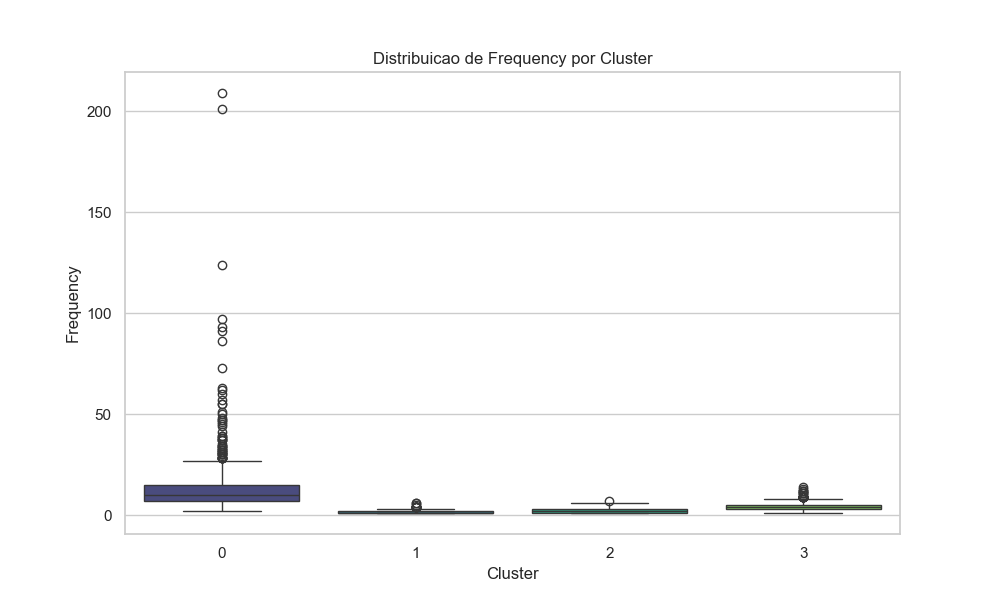
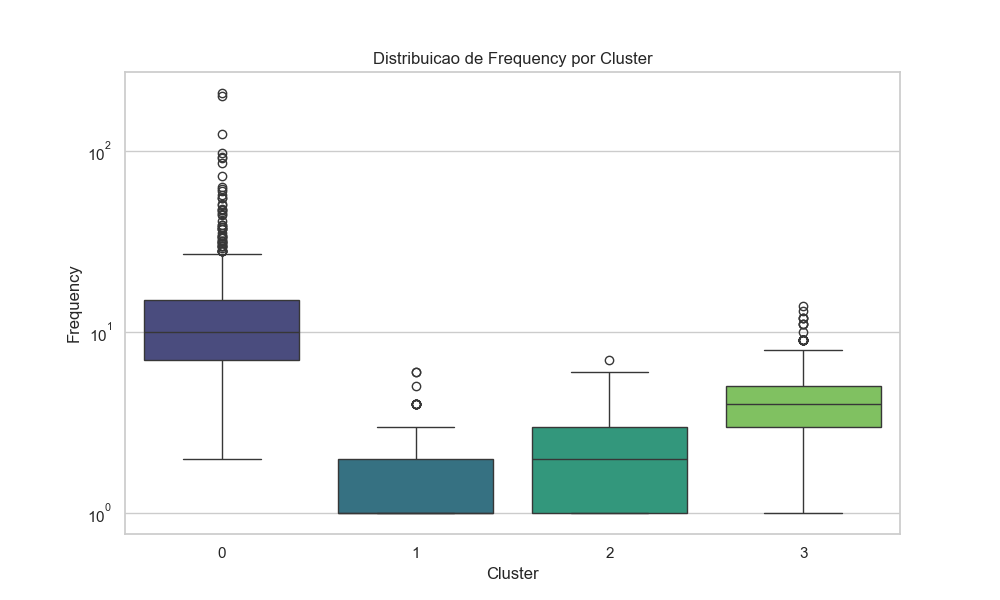
img update

diff --git a/src/pipeline.py b/src/pipeline.py
@@ -1,19 +1,23 @@
 import pandas as pd
+import shutil
+import warnings
+from pathlib import Path
 from src.config import PROJECT_ROOT, GOLD_DATA_DIR
 from src.data_loader import load_raw_data
 from src.preprocessing import clean_data
 from src.feature_engineering import compute_rfm_metrics
 from src.clustering import preprocess_for_clustering, train_kmeans
 from src.visualization import plot_rfm_clusters
+import sys
 
-def run_pipeline():
+def run_full_pipeline():
     """
     Executa o pipeline completo:
     Raw -> Silver (Limpeza) -> Gold (RFM) -> Modelo (K-Means) -> Relatorios
     """
-    print("--- INICIANDO PIPELINE DE DADOS ---")
+    print("--- INICIANDO PIPELINE COMPLETO ---")
     
-    # 1. Ingestao
+    # 1. Ingestão
     df_raw = load_raw_data()
     
     # 2. Pre-processamento (Silver)
@@ -29,21 +33,62 @@ def run_pipeline():
     print("Iniciando Clusterizacao...")
     df_scaled = preprocess_for_clustering(df_rfm)
     clusters = train_kmeans(df_scaled, k=4)
-    
-    # Atribui o resultado ao dataframe original (Gold)
     df_rfm['Cluster'] = clusters
     
-    # 5. Persistencia (Salvar Dados Finais)
+    # 5. Persistência (Salvar Dados Finais)
     output_file = GOLD_DATA_DIR / "rfm_clusters.csv"
     print(f"Salvando dados finais em: {output_file}...")
-    df_rfm.to_csv(output_file)
+    df_rfm.to_csv(output_file, index=False)
     
-    # 6. Visualizacao (Gerar Insights)
+    # 6. Visualização (Gráficos)
     docs_dir = PROJECT_ROOT / "docs" / "img"
-    plot_rfm_clusters(df_rfm, docs_dir)
+    _plot_rfm_safe(df_rfm, docs_dir)
     
-    print("--- PIPELINE CONCLUIDO COM SUCESSO ---")
-    print("Verifique a pasta 'data/gold' para o CSV e 'docs/img' para os graficos.")
+    print("--- PIPELINE COMPLETO CONCLUÍDO ---")
+    print("Verifique 'data/gold' para CSV e 'docs/img' para gráficos.")
+
+def run_plot_only():
+    """
+    Carrega apenas os dados da camada Gold e gera os gráficos.
+    Muito mais rápido.
+    """
+    gold_file = GOLD_DATA_DIR / "rfm_clusters.csv"
+    if not gold_file.exists():
+        print(f"Erro: CSV da Gold não encontrado em {gold_file}. Rode o pipeline completo primeiro.")
+        return
+
+    print(f"Lendo Gold direto de {gold_file}...")
+    df_rfm = pd.read_csv(gold_file)
+
+    docs_dir = PROJECT_ROOT / "docs" / "img"
+
+    # Limpa a pasta antes de gerar os gráficos
+    if docs_dir.exists():
+        shutil.rmtree(docs_dir)
+    docs_dir.mkdir(parents=True, exist_ok=True)
+
+    print("Gerando gráficos diretamente da Gold...")
+    _plot_rfm_safe(df_rfm, docs_dir)
+    print("Pronto! Gráficos atualizados.")
+
+def _plot_rfm_safe(df_rfm, docs_dir):
+    """
+    Wrapper que suprime warnings durante a plotagem
+    """
+    with warnings.catch_warnings():
+        warnings.simplefilter("ignore", category=FutureWarning)
+        plot_rfm_clusters(df_rfm, docs_dir)
 
 if __name__ == "__main__":
-    run_pipeline()
+    # Permite chamar modos via argumento: --full ou --plot-only
+    if len(sys.argv) > 1:
+        arg = sys.argv[1].lower()
+        if arg == "--plot-only":
+            run_plot_only()
+        elif arg == "--full":
+            run_full_pipeline()
+        else:
+            print("Argumento inválido. Use --full ou --plot-only")
+    else:
+        # Padrão: full pipeline
+        run_full_pipeline()

diff --git a/src/visualization.py b/src/visualization.py
@@ -22,8 +22,22 @@ def plot_rfm_clusters(df: pd.DataFrame, output_dir: Path):
     for metric in metrics:
         plt.figure(figsize=(10, 6))
         
+        
+        df_plot = df.copy()
+
+        if metric == 'Monetary':
+            upper = df_plot[metric].quantile(0.99)
+            df_plot[metric] = df_plot[metric].clip(upper=upper)
+
         # Boxplot ajuda a ver a mediana e os outliers de cada grupo
-        sns.boxplot(data=df, x='Cluster', y=metric, palette='viridis')
+        sns.boxplot(data=df_plot, x='Cluster', y=metric, palette='viridis', hue=None, legend=False)
+
+        # Ajuste apenas para a métrica Monetary e Frequency
+        if metric == 'Monetary':
+            plt.yscale("log")
+            
+        if metric == "Frequency":
+            plt.yscale("log")
         
         plt.title(f'Distribuicao de {metric} por Cluster')
         plt.xlabel('Cluster')
